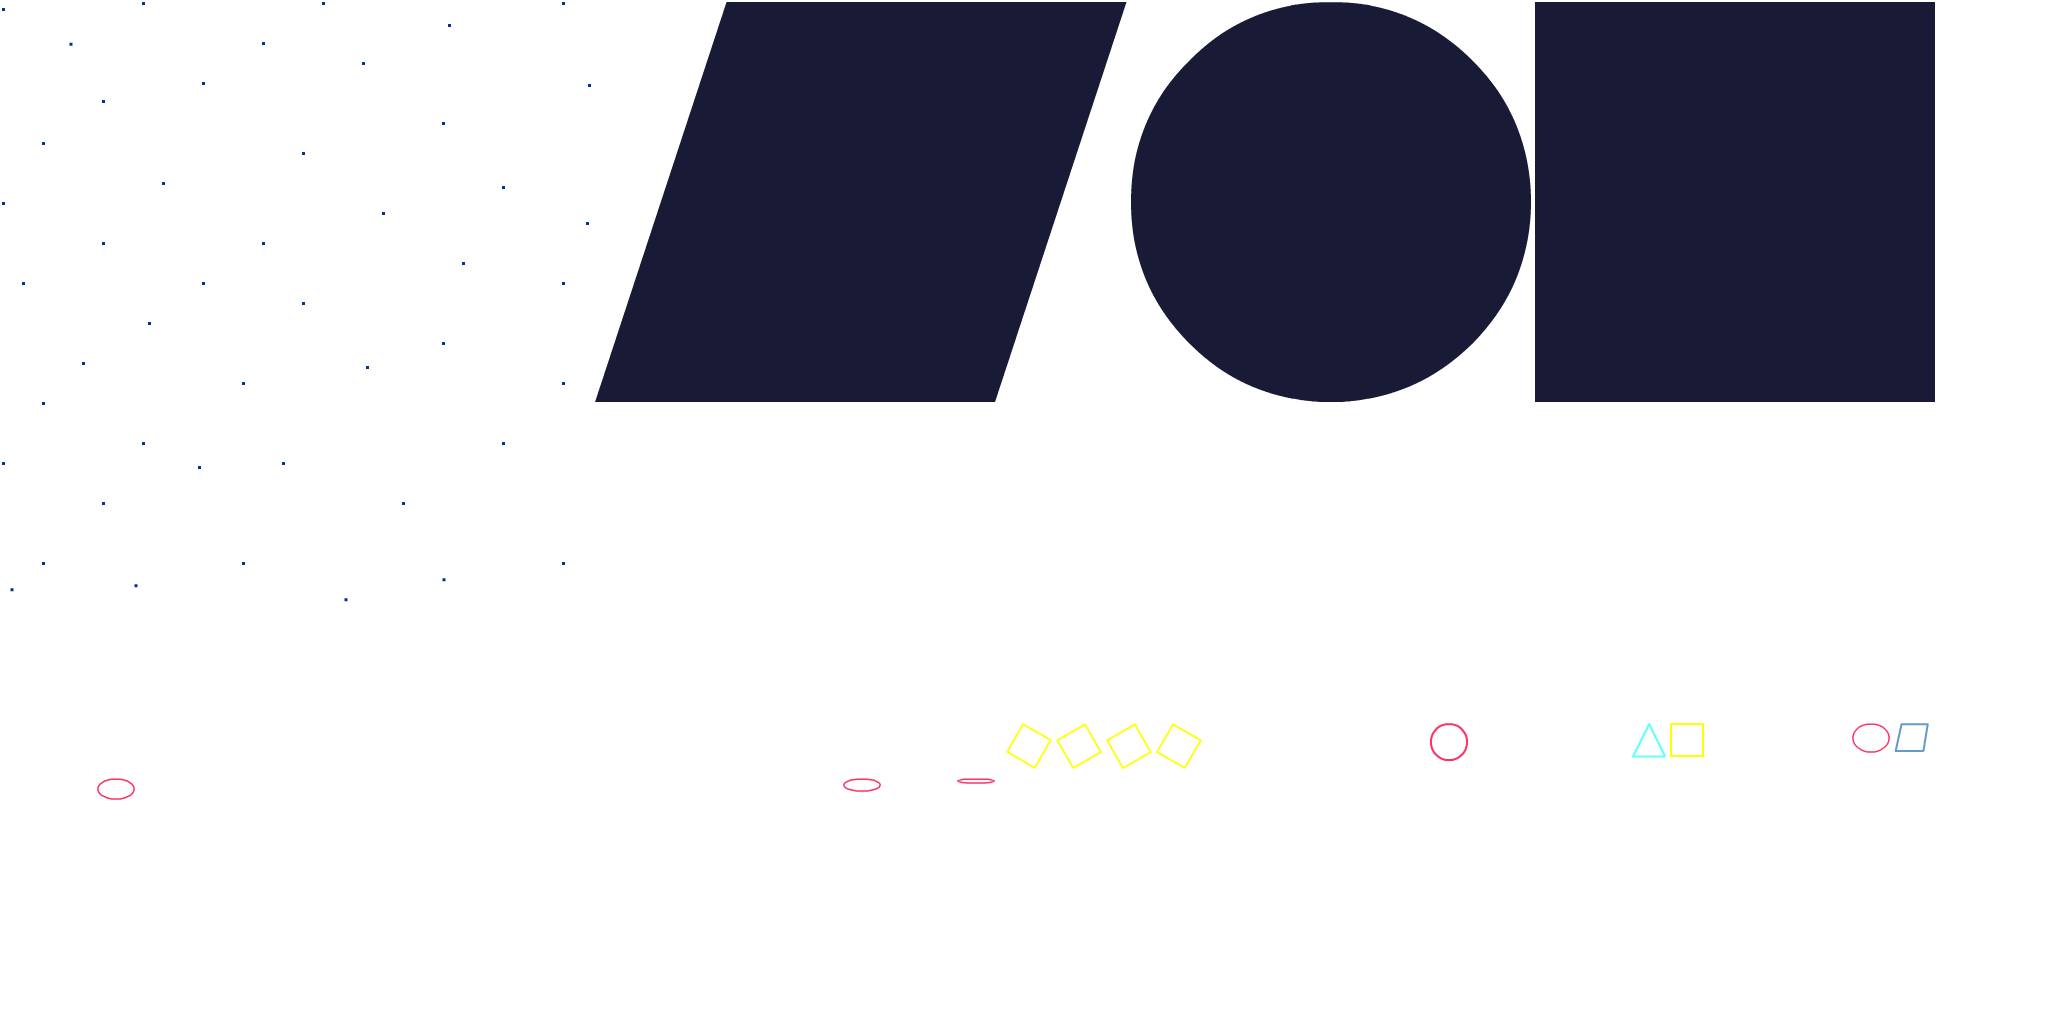
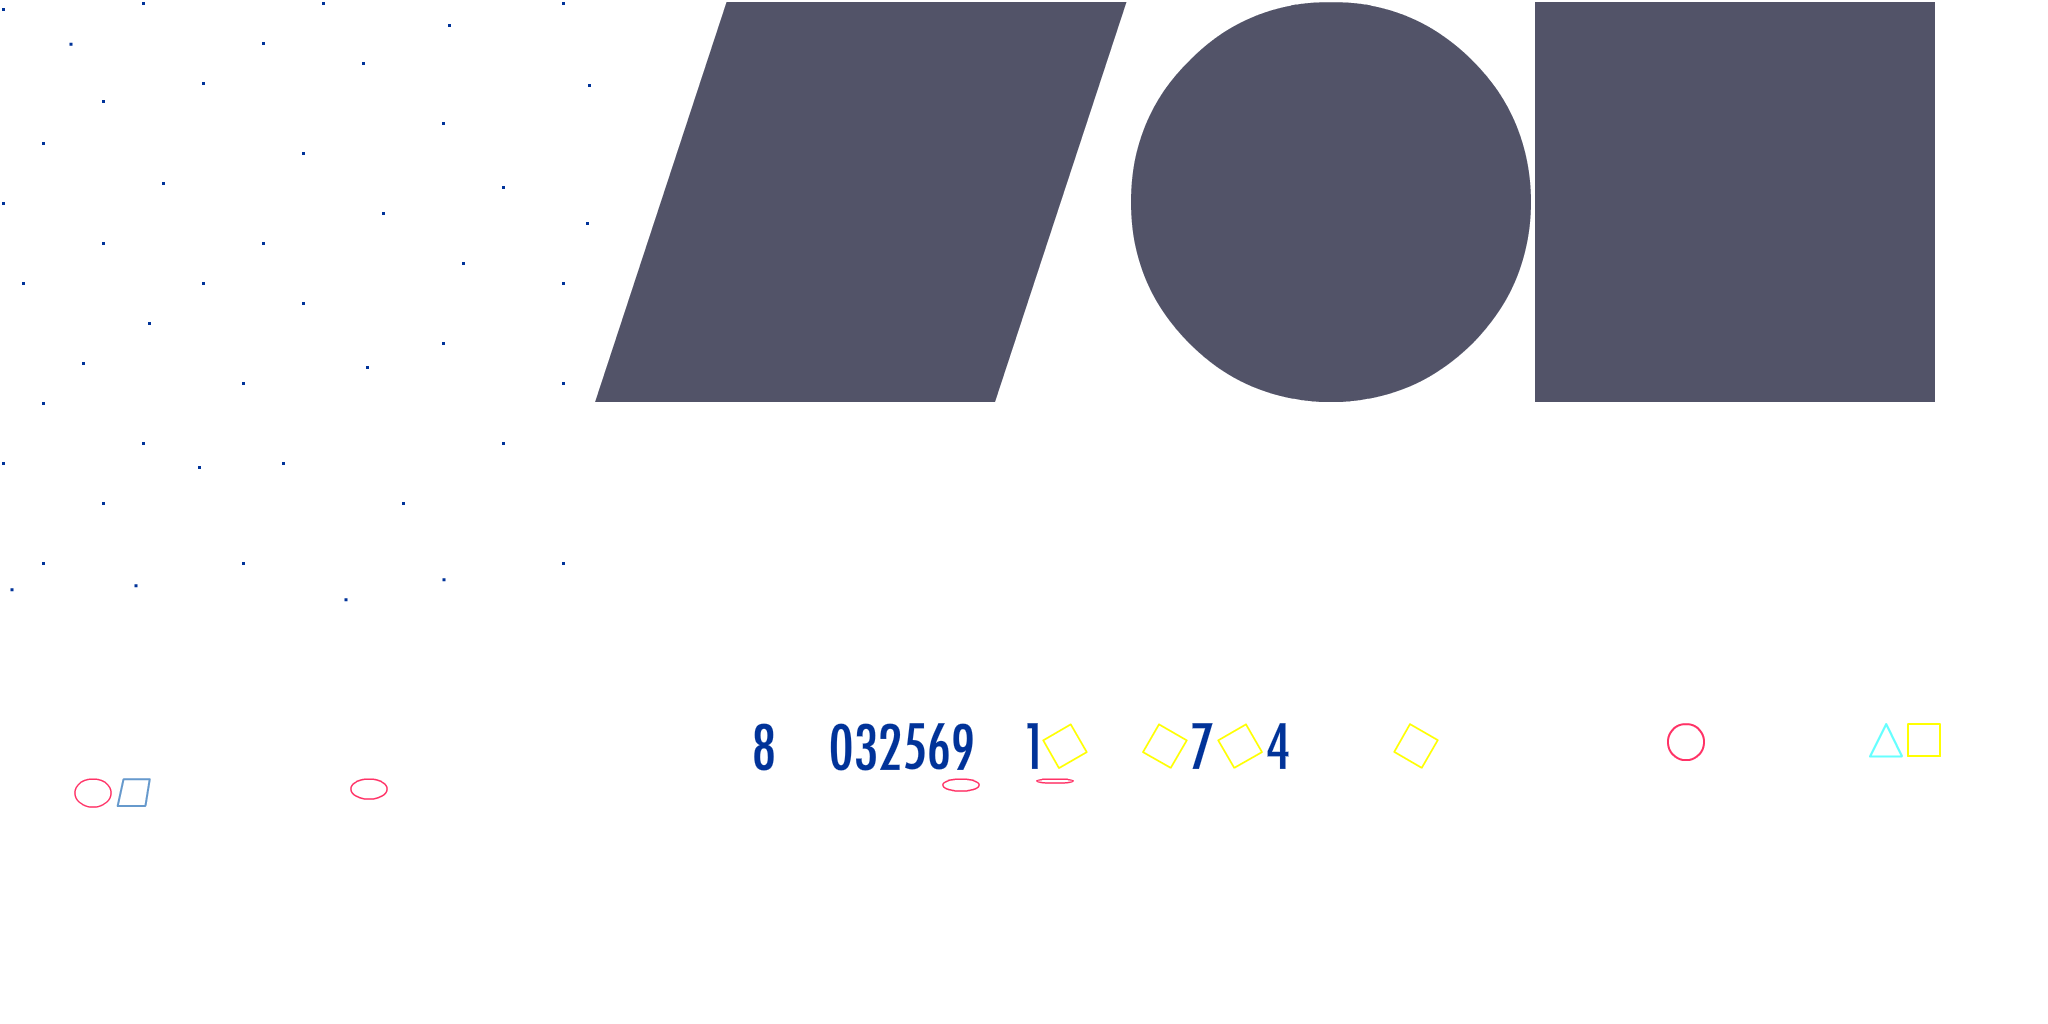
background shape tweaking

diff --git a/Background.js b/Background.js
@@ -26,15 +26,13 @@ var Background = function() {
         var shape = assetManager.getSprite("assets","backgroundShape" + Globals.randomMe(1,3));
         shape.speed = Globals.randomMe(1,3);
         shape.rotation = Globals.randomMe(50,180);        
-        shape.x = Globals.randomMe(200,700);
-        if (dropY === undefined) shape.y = -shape.getBounds().height * 1.5;
+        shape.x = Globals.randomMe(200,600);
+        if (dropY === undefined) shape.y = -shape.getBounds().height;
         else shape.y = dropY;
         backgroundLayer.addChild(shape);
 
         // add to array for reference in updateMe
         shapes.push(shape);
-
-        console.log(shapes);
     }
 
 
@@ -71,8 +69,6 @@ var Background = function() {
                 stage.removeChild(shape);
                 // remove shape sprite from array
                 shapes.splice(n, 1);
-
-                console.log(shapes);
             }
         }
 
@@ -92,7 +88,7 @@ var Background = function() {
 
 
         frameCounter++;
-        if ((frameCounter % 150) === 0) {
+        if ((frameCounter % 100) === 0) {
             dropShape();
             frameCounter = 0;
         }

diff --git a/ObjectPool.js b/ObjectPool.js
@@ -87,7 +87,7 @@ var ObjectPool = function() {
 		}
 		updateList[o.usedIndex] = null;
 
-		console.log("dispose " + o.constructor.name + " @ pool index " + o.poolIndex);
+		//console.log("dispose " + o.constructor.name + " @ pool index " + o.poolIndex);
 	};
 
 };
